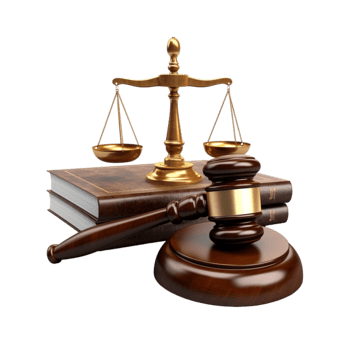
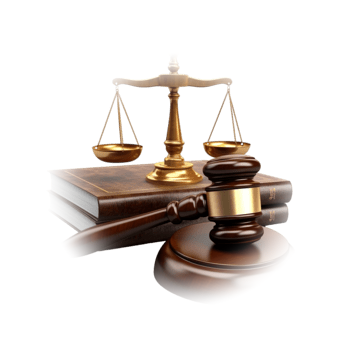
fix(hero): feather emblem edges and prevent clipping on laptop screens

Changed region(s): [[0.4278, 0.4889, 0.8556, 0.8556], [0.1222, 0.4583, 0.3361, 0.7333], [0.3056, 0.0917, 0.6417, 0.3056]]

diff --git a/perdata-app/app/page.tsx b/perdata-app/app/page.tsx
@@ -79,12 +79,16 @@ export default function HomePage() {
         {/* Soft Faded Background Law Emblem Watermark */}
         <div
           aria-hidden="true"
-          className="absolute right-2 sm:right-6 md:right-10 lg:right-14 top-1/2 -translate-y-1/2 w-[300px] sm:w-[380px] md:w-[460px] lg:w-[520px] max-w-[45vw] max-h-[72vh] aspect-square pointer-events-none select-none z-0 opacity-25 md:opacity-35 transition-opacity flex items-center justify-center animate-float-slow"
+          className="absolute right-4 sm:right-8 md:right-12 lg:right-16 top-1/2 -translate-y-1/2 w-[280px] sm:w-[340px] md:w-[400px] lg:w-[450px] max-w-[42vw] max-h-[66vh] aspect-square pointer-events-none select-none z-0 opacity-30 md:opacity-40 transition-opacity flex items-center justify-center"
+          style={{
+            maskImage: 'radial-gradient(ellipse at center, rgba(0,0,0,1) 50%, rgba(0,0,0,0) 82%)',
+            WebkitMaskImage: 'radial-gradient(ellipse at center, rgba(0,0,0,1) 50%, rgba(0,0,0,0) 82%)',
+          }}
         >
           <img
             src="/law-emblem.png"
             alt=""
-            className="w-full h-full object-contain filter contrast-[1.05] sepia-[0.15]"
+            className="w-full h-full object-contain filter contrast-[1.05] sepia-[0.15] animate-float-slow"
           />
         </div>
 

diff --git a/perdata-app/app/globals.css b/perdata-app/app/globals.css
@@ -253,10 +253,10 @@ body {
 
 @keyframes floatSlow {
   0%, 100% {
-    transform: translateY(-50%) translateY(0px);
+    transform: translateY(0px);
   }
   50% {
-    transform: translateY(-50%) translateY(-10px);
+    transform: translateY(-8px);
   }
 }
 
